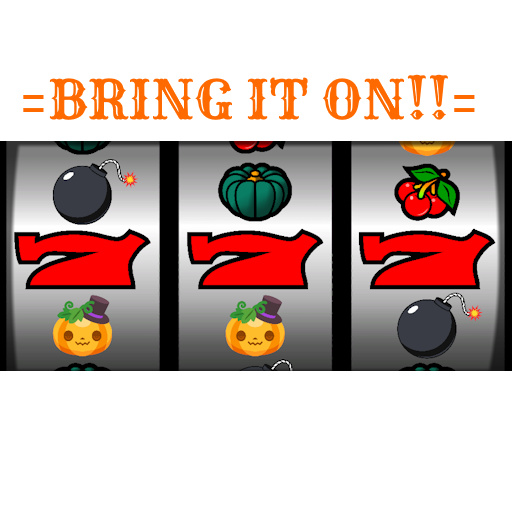
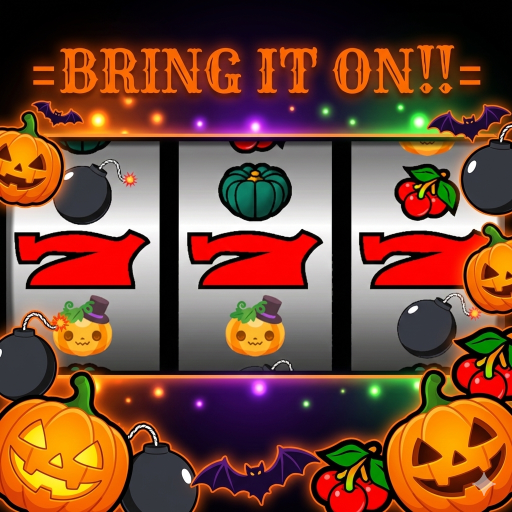
カードを変更。D-MAX画像変更

diff --git a/index.html b/index.html
@@ -31,37 +31,33 @@
     </section>
 
     <section class="game-grid">
-      <div class="game-card">
+      <a href="d_max.html" class="game-card">
         <img src="assets/img/d_max.png" alt="D-MAX">
         <div class="game-card-body">
-          <h2>D-MAX</h2>
-          <a href="d_max.html" class="btn btn-primary">GO TO PLAY</a>
+          <div class="btn btn-primary">D-MAX</div>
         </div>
-      </div>
+      </a>
 
-      <div class="game-card">
+      <a href="HalloweenPlanet.html" class="game-card">
         <img src="assets/img/hp.png" alt="HalloweenPlanet">
         <div class="game-card-body">
-          <h2>HalloweenPlanet</h2>
-          <a href="HalloweenPlanet.html" class="btn btn-primary">GO TO PLAY</a>
+          <div class="btn btn-primary">HalloweenPlanet</div>
         </div>
-      </div>
+    </a>
 
-      <div class="game-card">
+      <a href="Dimlit777.html" class="game-card">
         <img src="assets/img/Dimlit777_ss1.png" alt="Dimlit777">
         <div class="game-card-body">
-          <h2>Dimlit777</h2>
-          <a href="Dimlit777.html" class="btn btn-primary">GO TO PLAY</a>
+          <div class="btn btn-primary">Dimlit777</div>
         </div>
-      </div>
+      </a>
 
-      <div class="game-card">
+      <a href="score.html" class="game-card">
         <img src="assets/img/score.png" alt="score">
         <div class="game-card-body">
-          <h2>score</h2>
-          <a href="score.html" class="btn btn-primary">GO TO PLAY</a>
+          <div class="btn btn-primary">score</div>
         </div>
-      </div>
+      </a>
     </section>
   </main>
 
